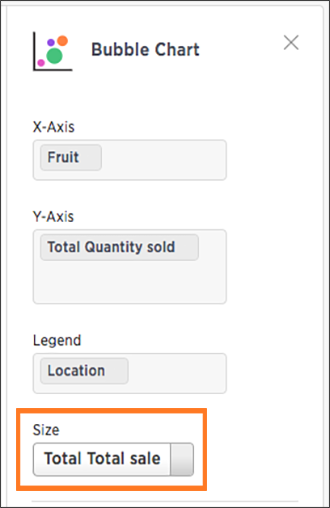
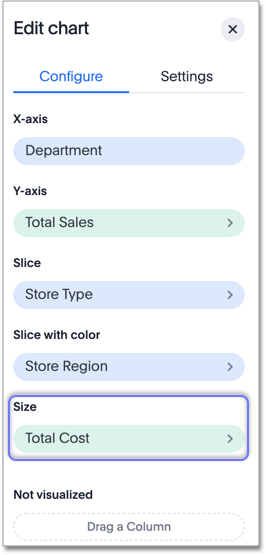
added slice feature, sort on two or more table columns

diff --git a/_end-user/search/drag-and-drop.md b/_end-user/search/drag-and-drop.md
@@ -14,15 +14,18 @@ You can only add attributes to the X axis, and measures to the Y axis. If you ca
 You can also drop attributes and measures to the **not visualized** section. This removes them from the visualization, but not from your search. Move items to the **not visualized** section either by dragging and dropping them, or by clicking the **x** that appears when you hover over an attribute or measure.
 
 {: id="slice-with-color"}
-You can also drag and drop attributes into the **slice with color** section, which appears for certain chart types, such as column or bar charts, if you have more than one measure in a search. **Slicing with color** enables you to separate data already sorted by an attribute into subcategories, based on another attribute in your search. In the following example, we sliced `sales` for each `department` by `store region`.
+You can also drag and drop attributes into the **slice with color** section, which appears for certain chart types, such as column or bar charts, if you have more than one measure in a search. **Slicing with color** enables you to separate data already sorted by an attribute into subcategories denoted by color, based on another attribute in your search. In the following example, we sliced `sales` for each `department` by `store region`.
 
 ![Slice with color]({{ site.baseurl }}/images/chartconfig-customizemenu.png "Slice with color")
 
-To drag and drop columns to the correct axis, or to the **slice with color** section, follow these steps:
+{: id="slice-scatter-bubble"}
+You can also drag and drop attributes into the **slice** section, which only appears for [scatter]({{ site.baseurl }}/end-user/search/about-scatter-charts.html) and [bubble charts]({{ site.baseurl }}/end-user/search/about-bubble-charts.html). It allows you to break up data based on an additional column in your data. For scatter and bubble charts, you can both **slice** and **slice with color**.
+
+To drag and drop columns to the correct axis, or to the **slice with color** or **slice** section, follow these steps:
 
 1. Click the **chart configuration** icon ![]({{ site.baseurl }}/images/icon-gear-10px.png){: .inline} on the top right.
 
-2. Drag and drop a measure or attribute from the **not visualized** section to the correct axis, or from an axis to the **not visualized** section. You can also move something to the **not visualized** section by clicking the **x** that appears when you hover over an attribute or measure. Or, drag an attribute to the **slice with color** section. 
+2. Drag and drop a measure or attribute from the **not visualized** section to the correct axis, or from an axis to the **not visualized** section. You can also move something to the **not visualized** section by clicking the **x** that appears when you hover over an attribute or measure. Or, drag an attribute to the **slice with color** or **slice** section.
 
    ![Configure x and y axis]({{ site.baseurl }}/images/chart-config-not-visualized.gif "Configure x and y axis")
 

diff --git a/_end-user/search/about-bubble-charts.md b/_end-user/search/about-bubble-charts.md
@@ -7,10 +7,14 @@ permalink: /:collection/:path.html
 ---
 The bubble chart is a variation of the scatter chart, with the data points replaced with bubbles. These bubbles add a third data dimension to your answer.
 
- ![]({{ site.baseurl }}/images/bubble_chart_example.png "Bubble chart example")
+![]({{ site.baseurl }}/images/bubble_chart_example.png "Bubble chart example")
 
-The size of each bubble depends on the measure you choose under **Edit chart configuration**.
+The size of each bubble depends on the measure you choose under **Edit chart** ![]({{ site.baseurl }}/images/icon-gear-10px.png){: .inline}.
 
- ![]({{ site.baseurl }}/images/bubble_chart_size.png "Bubble size dropdown")
+![]({{ site.baseurl }}/images/bubble_chart_size.png "Bubble size dropdown")
+
+Note that this chart type allows you to both **slice** and [slice with color]({{ site.baseurl }}/end-user/search/drag-and-drop.html#slice-with-color). The **slice** option only appears for bubble and [scatter charts]({{ site.baseurl }}/end-user/search/about-scatter-charts.html). It allows you to break up data based on a specific column in your data; in this case, `store type`. If you hover over a data point, you can see what store type it represents:
+
+![Bubble chart - slice]({{ site.baseurl }}/images/bubble-chart-slice.png "Bubble chart - slice")
 
 Your search needs at least one attribute and two measures to be represented as a bubble chart.

diff --git a/_end-user/search/about-scatter-charts.md b/_end-user/search/about-scatter-charts.md
@@ -1,13 +1,19 @@
 ---
 title: [Scatter charts]
 
-last_updated: tbd
+last_updated: 8/12/2020
 summary: "The scatter chart is useful for finding correlations or outliers in your data."
 sidebar: mydoc_sidebar
 permalink: /:collection/:path.html
 ---
 Scatter charts display your data as a collection of points, which can either be evenly or unevenly distributed. Each point is plotted based on its own axes values. This helps you determine if there is a relationship between your searched columns.
 
- ![]({{ site.baseurl }}/images/scatter_chart_example.png "Scatter chart example")
+In this chart, there is a correlation between `total sales` and `total cost`:
+
+![Scatter chart example]({{ site.baseurl }}/images/scatter_chart_example.png "Scatter chart example")
+
+Note that this chart type allows you to both **slice** and [slice with color]({{ site.baseurl }}/end-user/search/drag-and-drop.html#slice-with-color). The **slice** option only appears for scatter and [bubble charts]({{ site.baseurl }}/end-user/search/about-bubble-charts.html). It allows you to break up data based on a specific column in your data; in this case, `department`. If you hover over a data point, you can see what department it represents: 
+
+![Scatter chart - slice]({{ site.baseurl }}/images/scatter-chart-slice.png "Scatter chart - slice")
 
 Your search needs at least one attribute and one measure to be represented as a scatter chart.

diff --git a/_end-user/search/about-tables.md b/_end-user/search/about-tables.md
@@ -81,8 +81,15 @@ To change the number formatting:
 ## Sort columns
 
 You can sort a table by column values by clicking on the column title. If you
-hold down the SHIFT key you can click multiple heads and sort on them in
-turn.
+hold down the SHIFT key, you can sort on multiple column titles at a time. This is especially useful for date columns. For example, if you search for `sales` by `week` and by `quarter`,  and just sort the `quarterly` column, the weeks are not in order:
+
+![Sort - quarterly]({{ site.baseurl }}/images/sort-one-column.png "Sort - quarterly")
+
+If you press SHIFT and then click on the `weekly` column header, the weeks are in order, by quarter:
+
+![Sort - weekly]({{ site.baseurl }}/images/sort-two-columns.png "Sort - weekly")
+
+You can achieve this from the search bar, as well, by adding `sort by date quarterly` and `sort by date weekly`.
 
 {% include tip.html content="This same functionality is available on tables you
 see elsewhere in ThoughtSpot. For example, a table in the **Data** page is also
